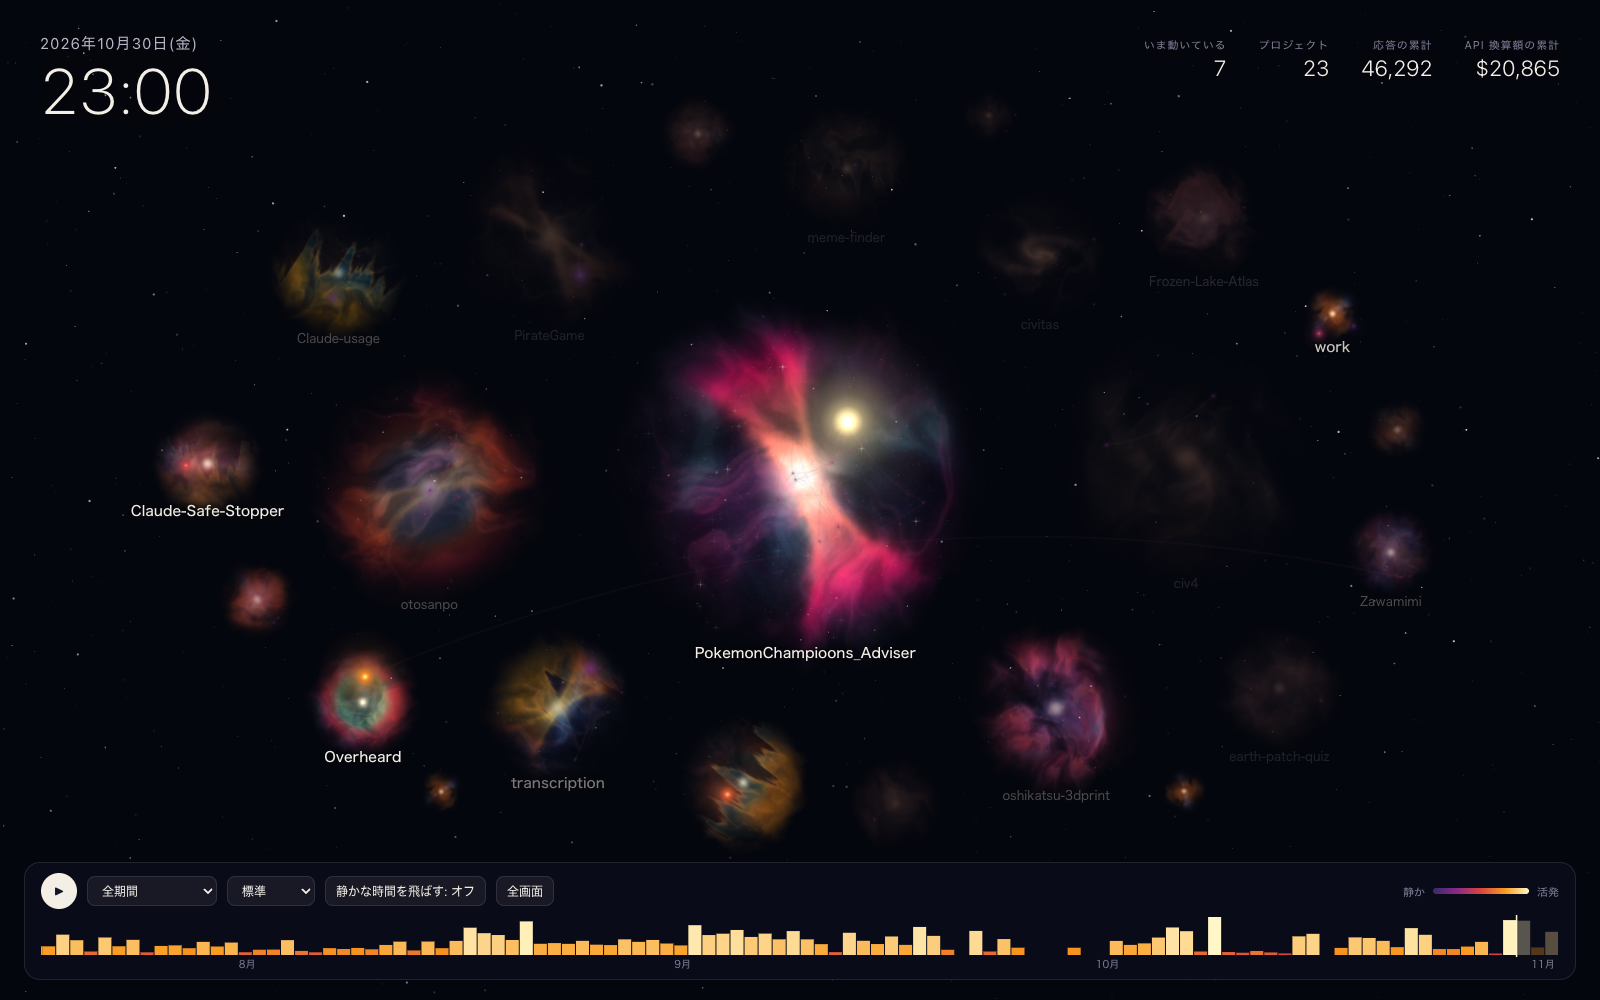
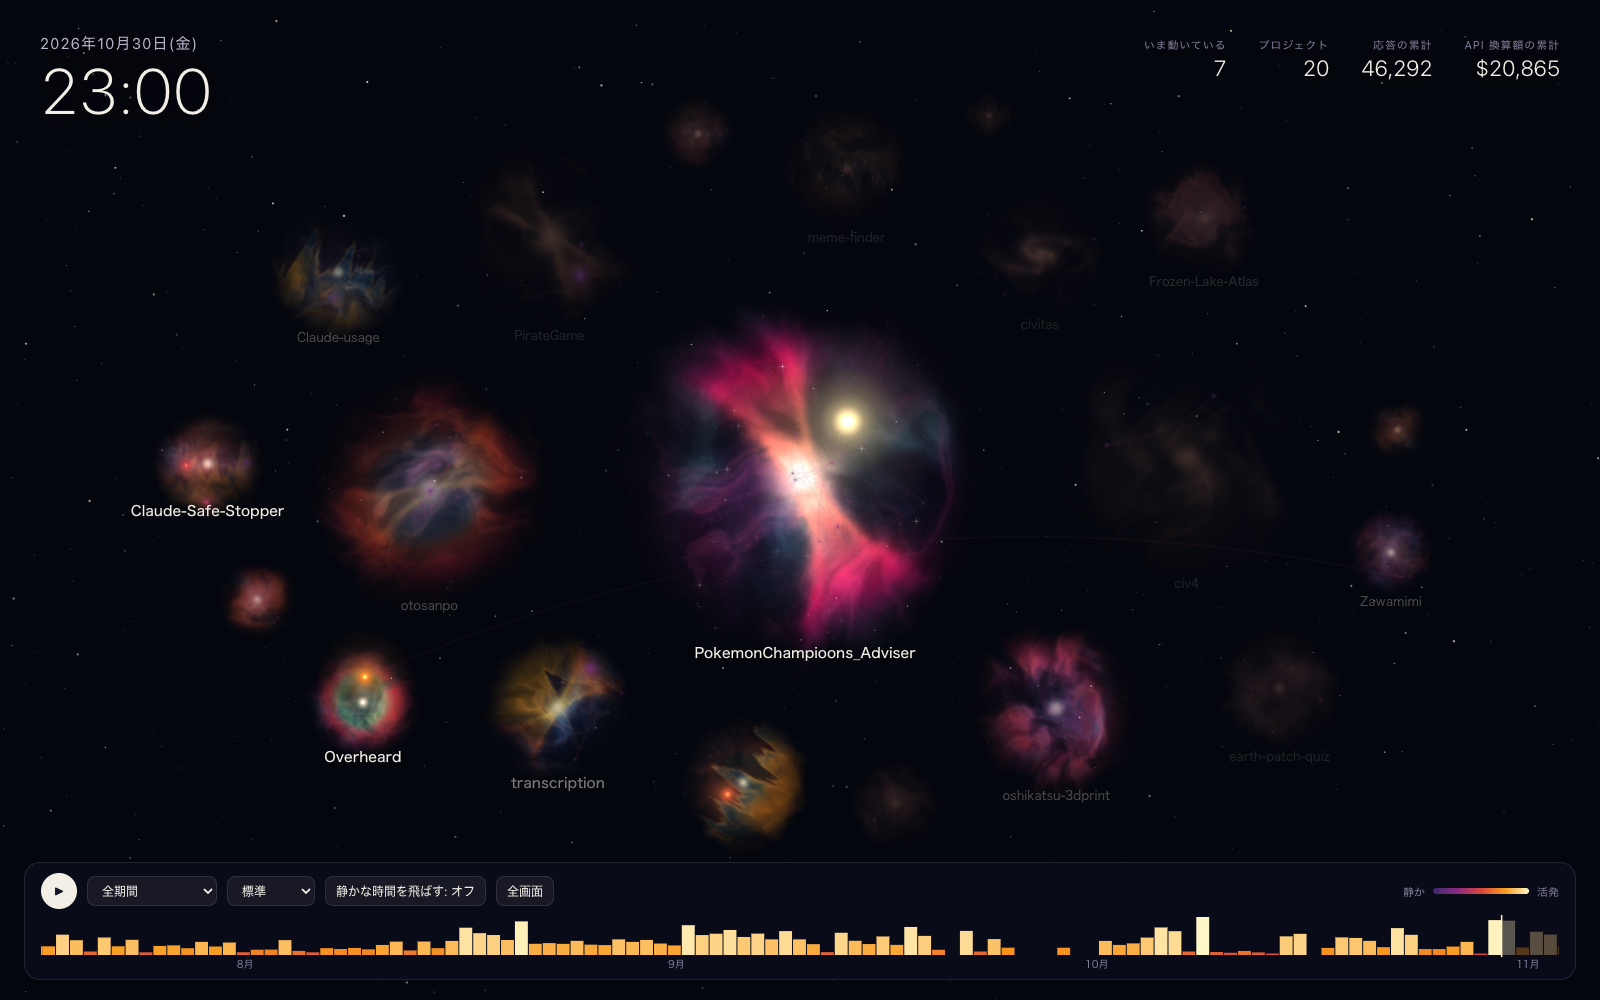
設計書に記録し、README の再生画面の写真を差し替え

diff --git a/docs/design.md b/docs/design.md
@@ -1,6 +1,6 @@
 # Claude 使用量 週次レポート 設計書
 
-- 版: 1.22
+- 版: 1.23
 - 作成日: 2026-10-23
 - 状態: フェーズ 0〜3 完了。GitHub で公開(§14)。7/21〜10/27 に終わる 15 週分のレポートを作成済み。launchd による自動作成と使用量メニューの通知を適用済み(§10)
 
@@ -730,6 +730,12 @@ ID の項目だけ。2026-11-02 ユーザーの了承。本文は読まない):
 
 実データ(7/17〜10/20)では 19 のプロジェクトに分かれた。
 
+- 別名の設定(2026-11-04、ユーザーの了承): Claude-Safe-Stopper のテスト(E2E など)は一時フォルダ
+  (`/private/var/folders/…/T/css-*`、多くはその下の `work`)でセッションを起動する。末尾の名前のままだと「work」「css-probe-…」などの
+  別のプロジェクトとして並び、11/3 に終わる週は「work」が 168 セッション(Haiku 5.5)になったので、`Claude-Safe-Stopper` にまとめる。
+  フォルダ名の `css-` からの推定で、Claude-Safe-Stopper が起動したことは未確認。全期間の作業ディレクトリのうち、
+  この正規表現に当たるのは一時フォルダの `css-*` の 171 種類だけ(ほかのフォルダに当たらないことを確認)。
+
 ## 6. 指標: API 換算額 × モデルの倍率(2026-10-23 に単価ベースへ変更)
 
 生のトークン合計はキャッシュ読込が 97.8% を占め、実際の負荷を反映しない。そこで、各応答のトークン数にそのモデルの API の単価を
@@ -898,6 +904,13 @@ ID の項目だけ。2026-11-02 ユーザーの了承。本文は読まない):
   交互に使う(`--noncode` / `--noncode-2`。2026-10-28、検証スクリプトで隣の色との差 16 以上を確認)。
 - 開発時間(§2.14): KPI の 4 つ目の欄に週の合計と最も長かったプロジェクト、プロジェクト別の表に列を出す(2026-11-01、ユーザーの要望)。
   表の Claude Code 以外の区分は「--」。
+- プロジェクト別の表は、円グラフで個別の区分にしたプロジェクトを 1 行ずつ、残り(「その他」と使用量 0 のもの)を
+  「その他 ◯ 件」の 1 行にまとめる(2026-11-04、ユーザーの了承)。それまでは全プロジェクトを並べていたが、11/3 に終わる週は
+  16 行になり、PDF で「プロジェクト別」が見出しだけ 2 ページ目に残って中身が 3 ページ目に送られた。
+  まとめた行の換算額・セッション・サブエージェントの分は合計、開発時間は応答の時刻を合わせて数え直す(並行した分は 1 回。
+  `metrics.group_dev_time`。時刻を持たないダミーデータは各プロジェクトの値の合計)。
+- KPI の週次上限の使用率は折り返さず、4 文字以上(「100%」)は字を小さくする(2026-11-04)。11/3 に終わる週で
+  「100」と「%」が 2 行に分かれていた。
 - 常に同じ仕様の説明(グラフの読み方、近似値である旨、週・5 時間枠の区切り方、記録の取れる条件など)はレポートに載せない
   (2026-10-23、ユーザーの指定)。注記には、週ごとに変わる事実(記録点数、手動リセット、記録が足りない旨など)だけを書く。
 - 色は dataviz の参照パレット(分類 8 色、ライト/ダークで検証済み)を使う。プロジェクトへの割り当ては、
@@ -1219,3 +1232,6 @@ Claude-usage/
 - 1.21(2026-11-03): GitHub で公開する準備をした(ユーザーの要望、§14)。README・LICENSE(MIT)・画面写真を追加し、
   コミットの作者のメールを noreply に書き換え、再生画面のデモを GitHub Pages に置く。改訂履歴の 1.18〜1.20 を版の順に並べ直した。
 - 1.22(2026-11-03): 再生画面を大きさ 0 で開くと再生が止まったままになる不具合を直した(ユーザーの了承、§2.15)。デモも作り直した。
+- 1.23(2026-11-04): 11/3 に終わる週のレポートの崩れを直した(ユーザーの了承): プロジェクト別の表を上位と「その他」の 1 行に
+  まとめ、KPI の「100%」を折り返さないようにした(§9)。Claude-Safe-Stopper のテストの一時フォルダを別名でまとめた(§5)。
+  設定の例に別名を足したので、テスト `test_example_file` の期待値(別名が空)を新しい別名に更新した。11/3 に終わる週を作り直した。
